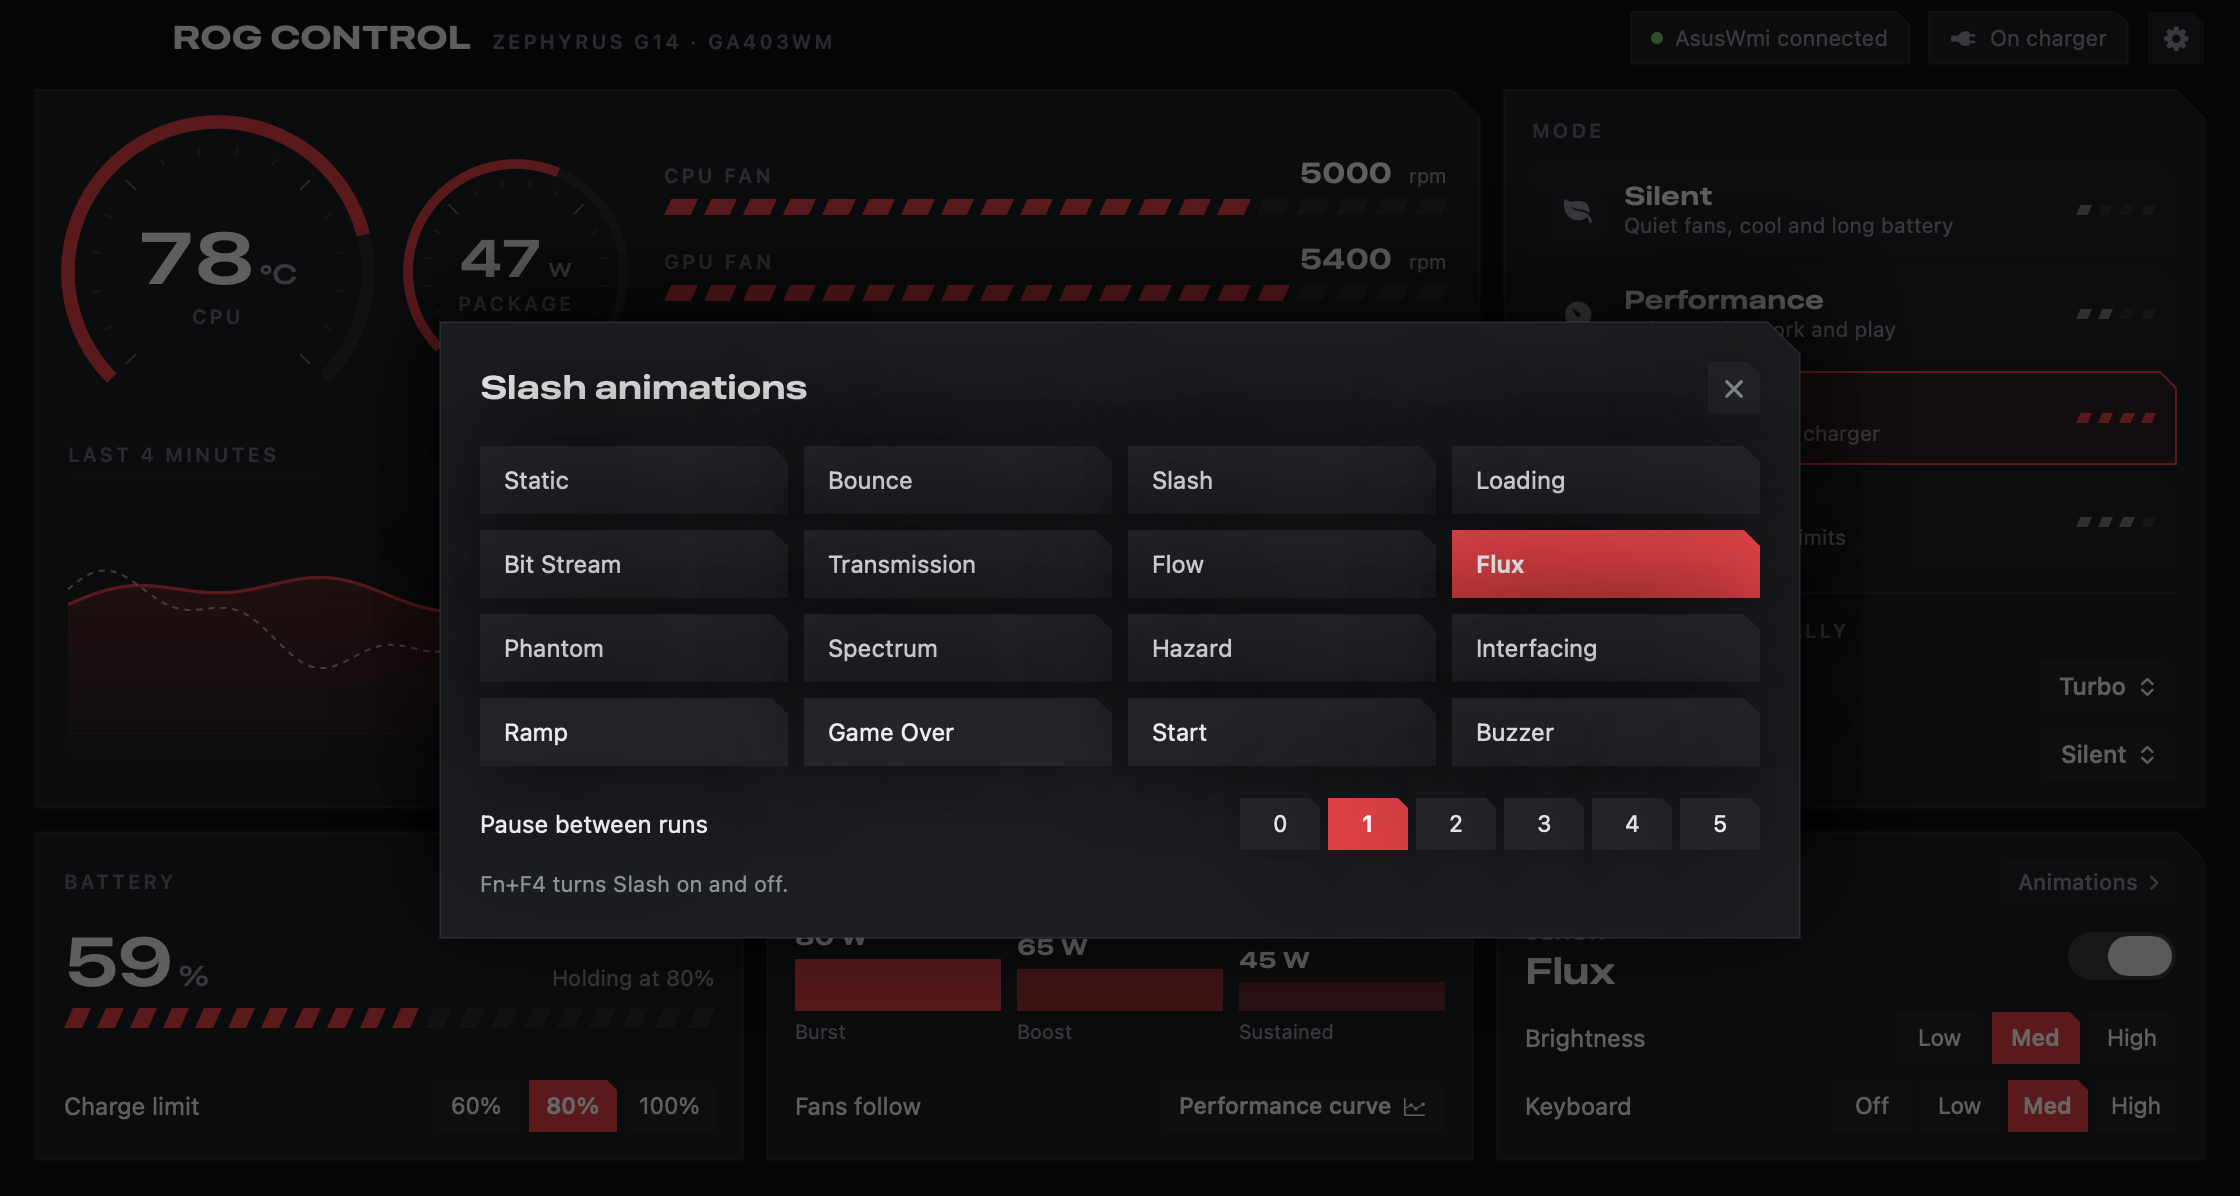
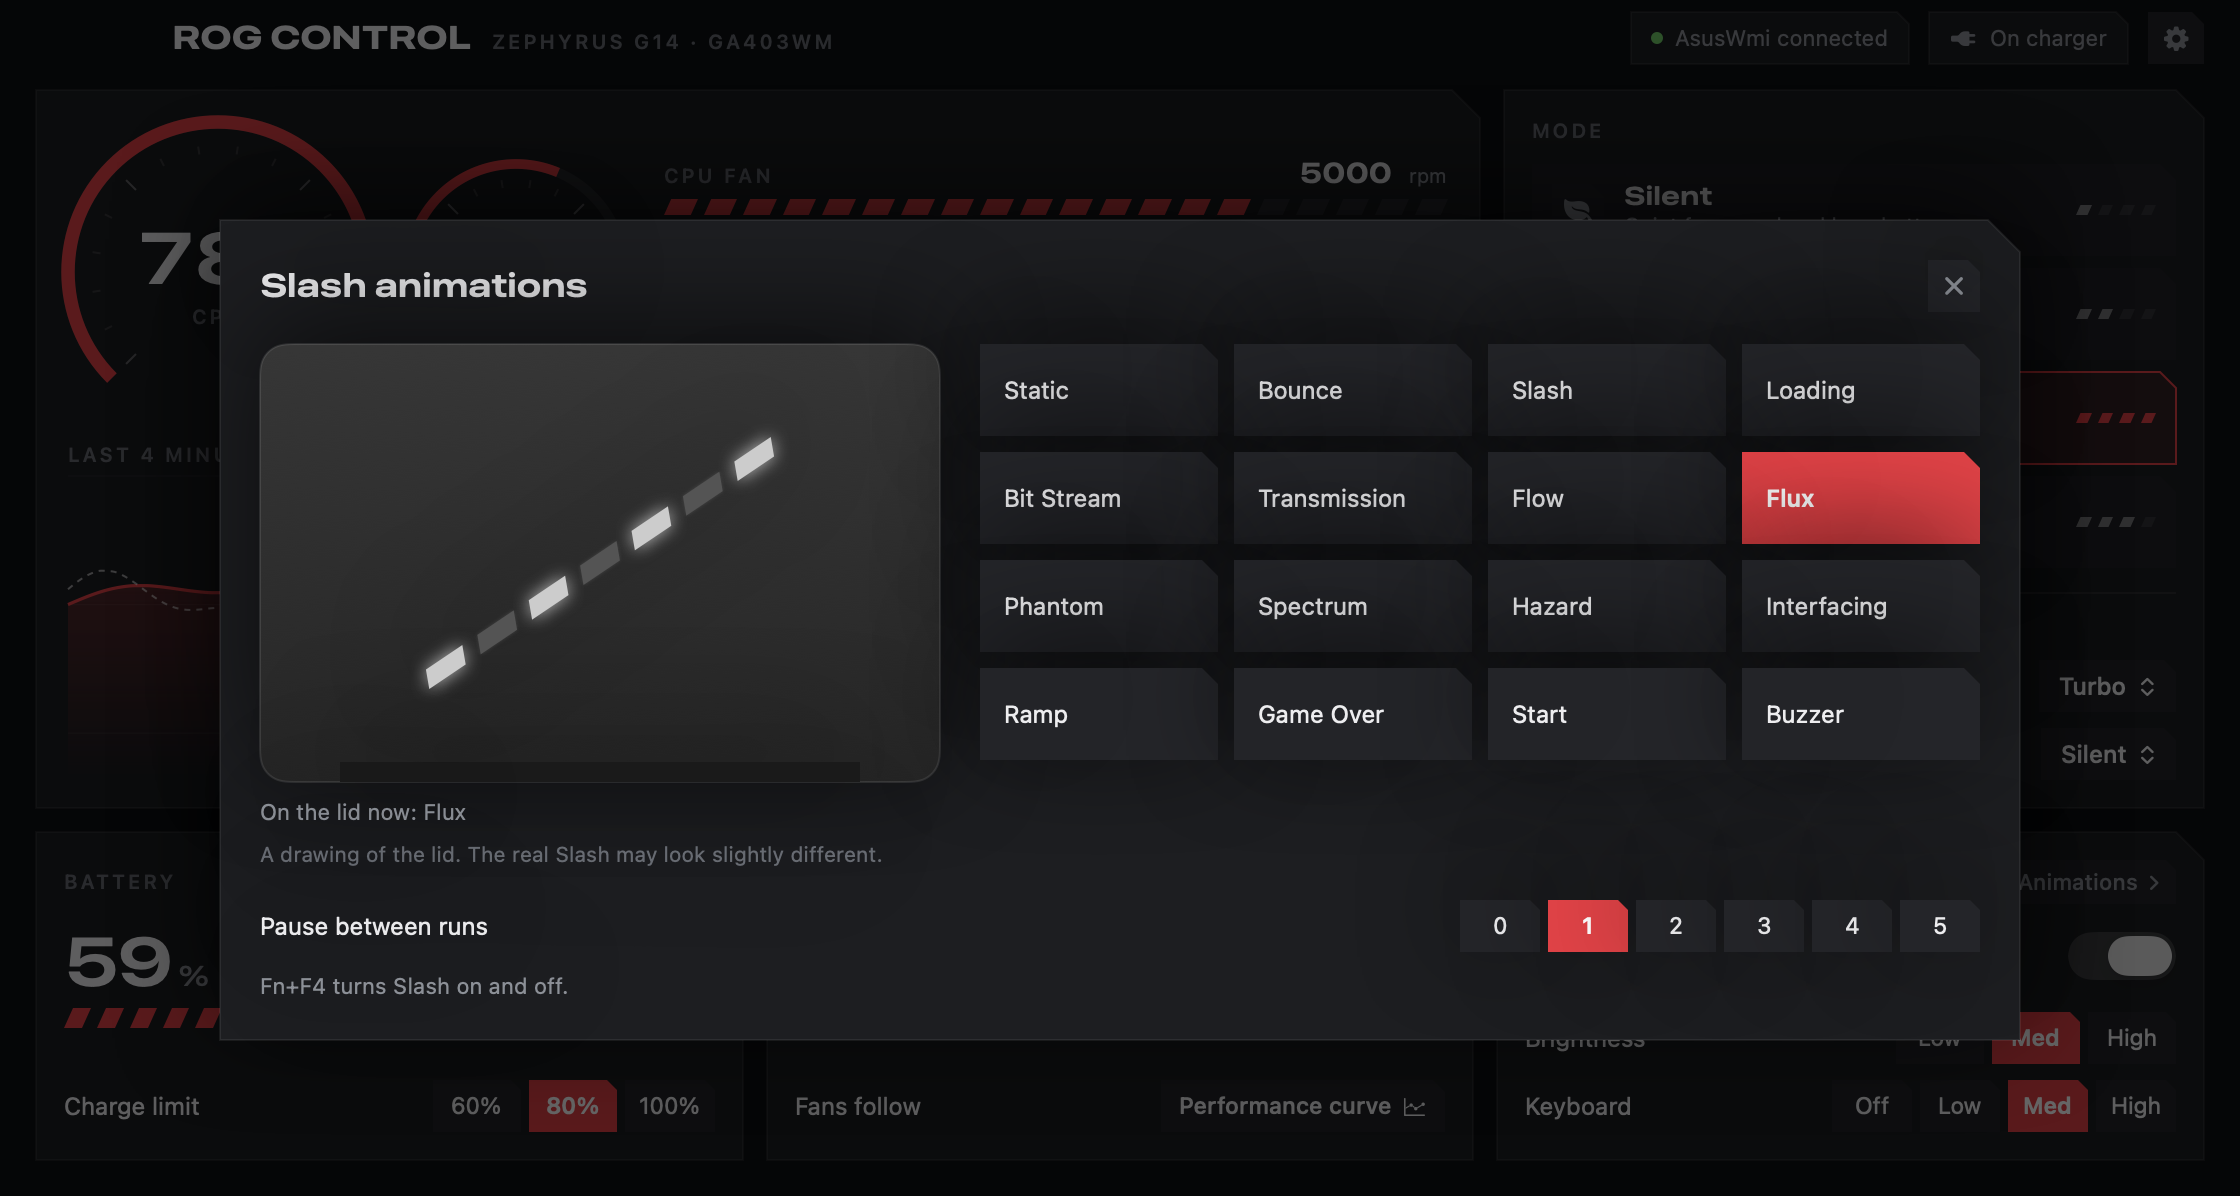
RogControl: Slash dialog previews the animation on a drawn G14 lid
The lid plays an approximation of the selected mode (brightness and pause applied); hovering a
mode previews it before it is applied. Grid is 4x4 beside the lid.

diff --git a/macos/RogControl/RogControl.swift b/macos/RogControl/RogControl.swift
@@ -992,7 +992,7 @@ enum RogDialog: String, Identifiable {
         case .settings: return "Settings"
         }
     }
-    var width: CGFloat { self == .limits ? 820 : self == .settings ? 560 : 680 }
+    var width: CGFloat { self == .limits ? 820 : self == .slash ? 900 : self == .settings ? 560 : 680 }
 }
 
 struct TileHead: View {           // tile title, with an opener for its dialog on the right
@@ -1483,23 +1483,106 @@ struct FanCurves: View {
     }
 }
 
+// A drawn G14 lid with the Slash strip playing the chosen mode. The animations are approximations of the firmware's: the lid
+// itself plays the real one. Hovering a mode in the grid previews it here before it is applied.
+enum SlashAnim {
+    static let count = 7                        // slanted LED segments drawn along the strip
+    // brightness 0...1 of segment i at time t for mode, with `pause` seconds dark between runs
+    static func level(_ mode: Int, _ i: Int, _ t: Double, pause: Double) -> Double {
+        let n = Double(count), x = Double(i) / (n - 1), period = 2.4
+        let cycle = period + pause, local = t.truncatingRemainder(dividingBy: cycle)
+        if local > period { return mode == 0 ? 1 : 0 }        // Static never pauses
+        let p = local / period
+        func tri(_ v: Double) -> Double { v < 0.5 ? v * 2 : 2 - v * 2 }
+        func near(_ pos: Double, _ w: Double) -> Double { max(0, 1 - abs(Double(i) - pos) / w) }
+        let dim = 0.12
+        switch Slash.modes[min(mode, Slash.modes.count - 1)] {
+        case "Static": return 1
+        case "Bounce": return near(tri(p) * (n - 1), 1.3)
+        case "Slash": return near(p * (n + 2) - 1.5, 1.6)
+        case "Loading": return Double(i) < p * (n + 1) ? 1 : dim
+        case "Bit Stream":
+            var h = UInt64(i * 7919 + Int(t * 6) * 104729); h ^= h >> 13; h &*= 0x5bd1e995; h ^= h >> 15
+            return h % 3 == 0 ? 1 : dim
+        case "Transmission": return max(near((p * n * 2).truncatingRemainder(dividingBy: n + 1) - 0.5, 0.9), dim)
+        case "Flow": return 0.15 + 0.85 * (0.5 + 0.5 * sin(2 * .pi * (p * 2 - x)))
+        case "Flux": return (i + Int(p * 6)) % 2 == 0 ? 1 : 0.18
+        case "Phantom": return sin(.pi * p)
+        case "Spectrum": return 0.15 + 0.85 * (x + p).truncatingRemainder(dividingBy: 1)
+        case "Hazard": return Int(p * 6) % 2 == 0 ? 1 : 0
+        case "Interfacing": return abs(x - 0.5) * 2 >= 1 - tri(p) ? 1 : dim
+        case "Ramp": return x <= tri(p) ? 1 : dim
+        case "Game Over": return p < 0.5 ? (Int(p * 8) % 2 == 0 ? 1 : 0) : max(0, 1 - (p - 0.5) * 2)
+        case "Start": return abs(x - 0.5) * 2 <= p * 1.1 ? 1 : dim
+        case "Buzzer": return Int(p * 14) % 2 == 0 ? 1 : 0.1
+        default: return 1
+        }
+    }
+}
+
+struct LidPreview: View {
+    let mode: Int, bright: Int, interval: Int
+    @Environment(\.accessibilityReduceMotion) private var reduceMotion
+    var body: some View {
+        TimelineView(.animation(minimumInterval: 1 / 30, paused: reduceMotion || bright == 0)) { ctx in
+            let t = ctx.date.timeIntervalSinceReferenceDate
+            ZStack {
+                // the lid: dark aluminium, slightly lighter at the top, with the hinge along the bottom
+                RoundedRectangle(cornerRadius: 14)
+                    .fill(LinearGradient(colors: [Color(white: 0.20), Color(white: 0.13)], startPoint: .top, endPoint: .bottom))
+                    .overlay(RoundedRectangle(cornerRadius: 14).stroke(Color.white.opacity(0.10), lineWidth: 1))
+                VStack { Spacer(); Rectangle().fill(Color(white: 0.08)).frame(height: 10).padding(.horizontal, 40) }
+                strip(t)
+            }
+        }
+        .aspectRatio(1.55, contentMode: .fit)
+        .accessibilityElement(children: .ignore)
+        .accessibilityLabel("Lid preview: Slash \(bright > 0 ? Slash.modes[min(mode, Slash.modes.count - 1)] : "off")")
+    }
+    func strip(_ t: Double) -> some View {
+        let gain = [0, 0.45, 0.75, 1.0][min(max(bright, 0), 3)]
+        return HStack(spacing: 5) {
+            ForEach(0..<SlashAnim.count, id: \.self) { i in
+                let v = bright == 0 ? 0 : SlashAnim.level(mode, i, reduceMotion ? 0.6 : t, pause: Double(interval) * 0.6) * gain
+                Slant()
+                    .fill(Color(white: 0.22 + 0.78 * v))
+                    .frame(width: 26, height: 9)
+                    .shadow(color: .white.opacity(0.9 * v), radius: 6 * v)
+            }
+        }
+        .rotationEffect(.degrees(-34))
+    }
+}
+
 struct SlashEditor: View {
     @ObservedObject var m: RogModel
+    @State private var hovered: Int?
     var slash: Slash { m.currentSlash }
     var body: some View {
         VStack(alignment: .leading, spacing: 0) {
-            LazyVGrid(columns: Array(repeating: GridItem(.flexible(), spacing: 8), count: 4), spacing: 8) {
-                ForEach(Slash.modes.indices, id: \.self) { i in
-                    let on = slash.bright > 0 && slash.mode == i
-                    Button {
-                        var s = slash; s.mode = i; if s.bright == 0 { s.bright = 2 }; m.setSlash(s)
-                    } label: {
-                        Text(Slash.modes[i]).font(.system(size: 12, weight: on ? .semibold : .regular))
-                            .frame(maxWidth: .infinity, alignment: .leading).padding(.horizontal, 12).frame(height: 34)
-                    }
-                    .buttonStyle(RogButtonStyle(selected: on, cut: 8))
-                    .accessibilityAddTraits(on ? .isSelected : [])
+            HStack(alignment: .top, spacing: 20) {
+                VStack(alignment: .leading, spacing: 8) {
+                    LidPreview(mode: hovered ?? slash.mode, bright: hovered != nil ? max(slash.bright, 2) : slash.bright,
+                               interval: slash.interval)
+                        .frame(width: 340)
+                    Text(caption).font(.system(size: 11)).foregroundStyle(T.dim)
+                    Text("A drawing of the lid. The real Slash may look slightly different.").font(.system(size: 10.5)).foregroundStyle(T.faint)
                 }
+                LazyVGrid(columns: Array(repeating: GridItem(.flexible(), spacing: 8), count: 4), spacing: 8) {
+                    ForEach(Slash.modes.indices, id: \.self) { i in
+                        let on = slash.bright > 0 && slash.mode == i
+                        Button {
+                            var s = slash; s.mode = i; if s.bright == 0 { s.bright = 2 }; m.setSlash(s)
+                        } label: {
+                            Text(Slash.modes[i]).font(.system(size: 12, weight: on ? .semibold : .regular))
+                                .frame(maxWidth: .infinity, alignment: .leading).padding(.horizontal, 12).frame(height: 46)
+                        }
+                        .buttonStyle(RogButtonStyle(selected: on, cut: 8))
+                        .onHover { inside in if inside { hovered = i } else if hovered == i { hovered = nil } }
+                        .accessibilityAddTraits(on ? .isSelected : [])
+                    }
+                }
+                .frame(maxWidth: .infinity)
             }
             HStack {
                 Text("Pause between runs").font(.system(size: 12)).foregroundStyle(T.text); Spacer()
@@ -1512,6 +1595,10 @@ struct SlashEditor: View {
             Text("Fn+F4 turns Slash on and off.").font(.system(size: 11)).foregroundStyle(T.dim).padding(.top, 10)
             ErrorLine(text: m.lightingError).padding(.top, 6)
         }
+    }
+    var caption: String {
+        if let h = hovered { return "Preview: \(Slash.modes[h]). Click to use it." }
+        return slash.bright > 0 ? "On the lid now: \(Slash.modes[min(slash.mode, Slash.modes.count - 1)])" : "Slash is off"
     }
 }
 
